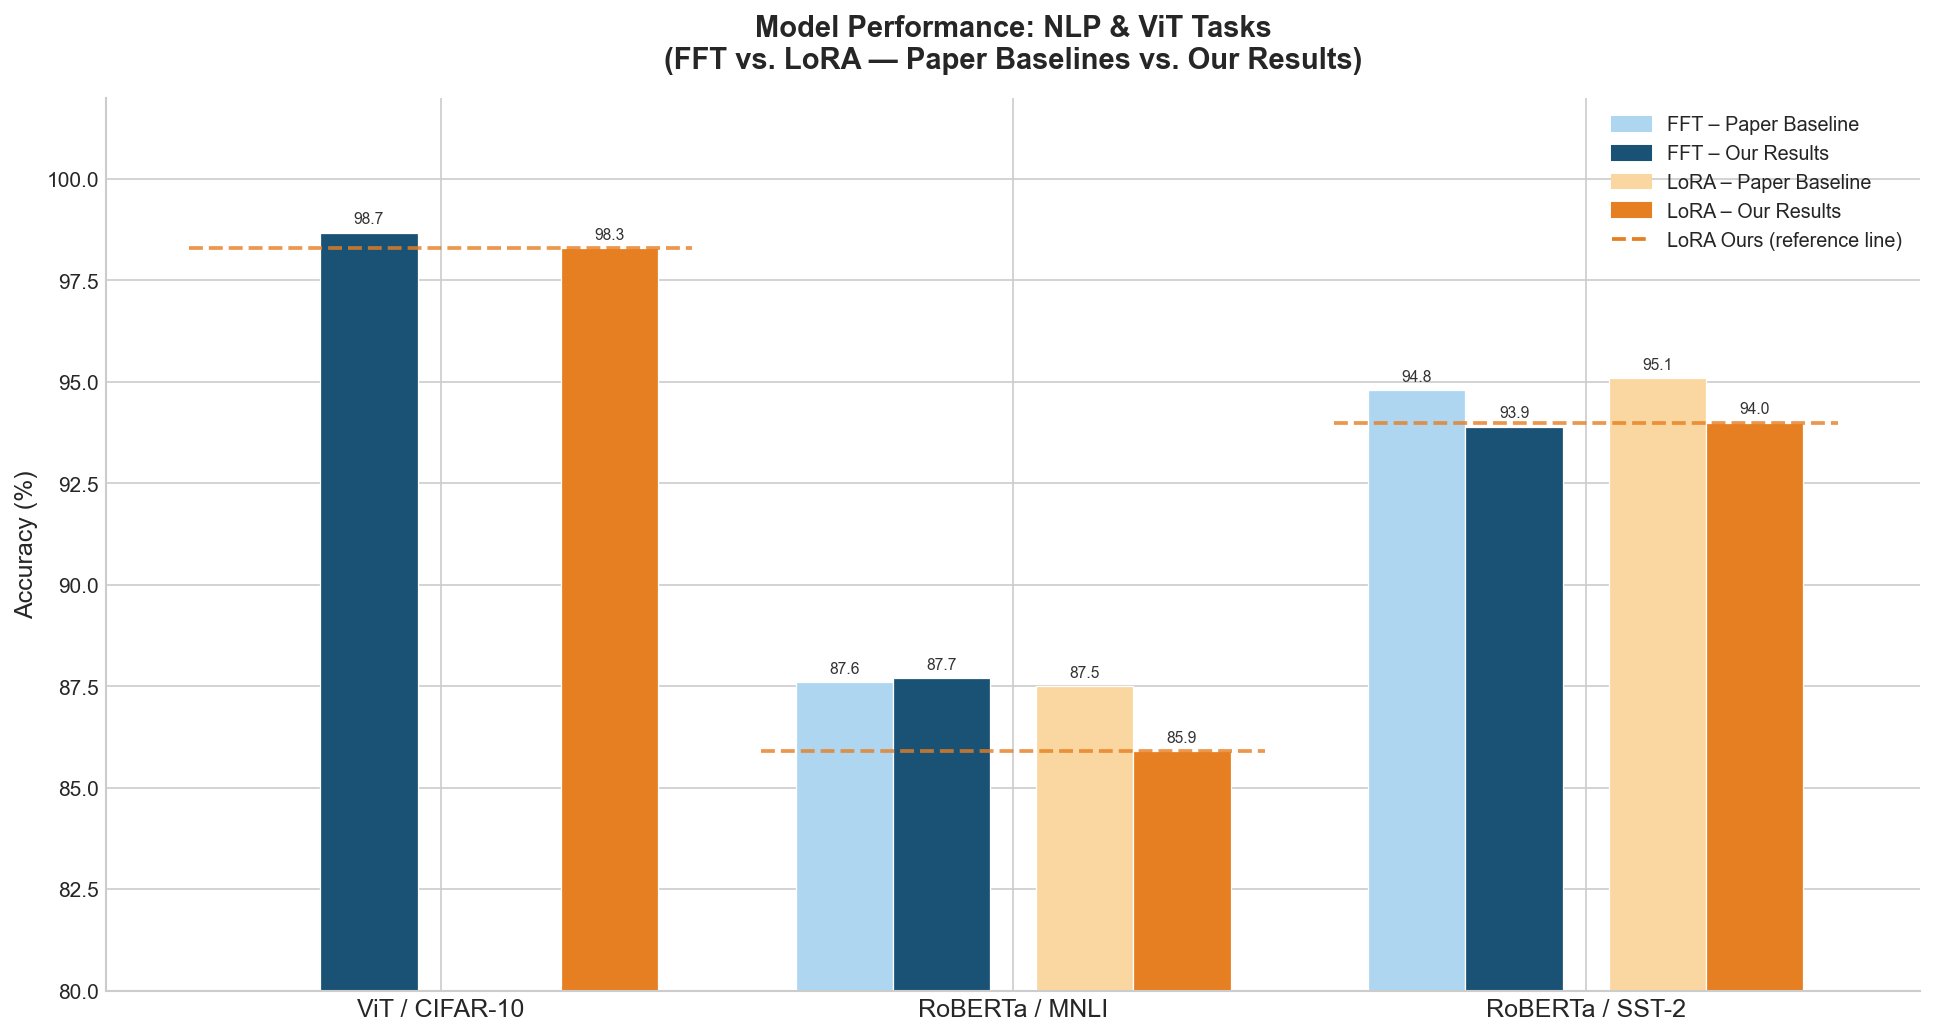
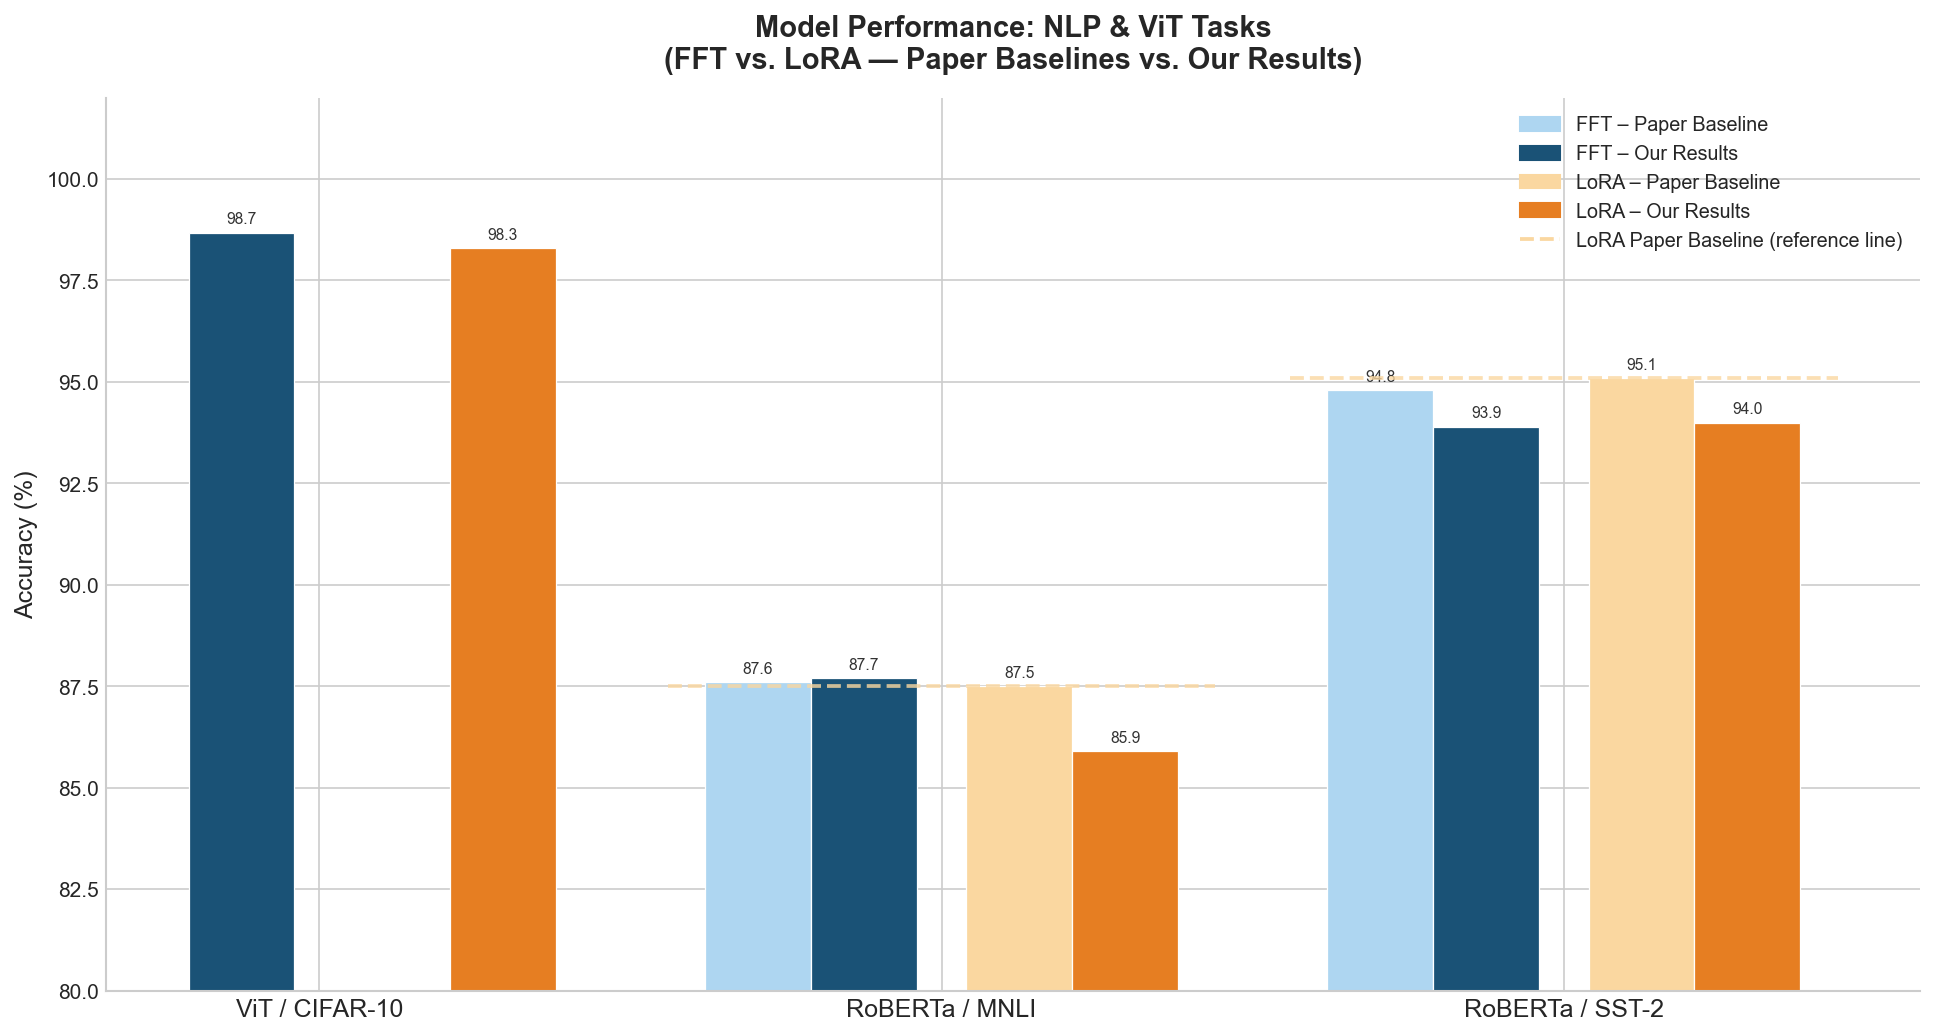
Update reference line in grouped bar chart to reflect LoRA Paper Baseline

Changed region(s): [[0.093, 0.2162, 0.6512, 0.9884], [0.6822, 0.3398, 0.9302, 0.9884], [0.7752, 0.0927, 0.9922, 0.2471]]

diff --git a/visualize2.py b/visualize2.py
@@ -51,15 +51,15 @@ for b, (col, label, color) in enumerate(zip(COLS, DISPLAY, COLORS)):
                 f"{v:.1f}", ha="center", va="bottom", fontsize=7.5, color="#333333",
             )
 
-# Dashed reference line at LoRA Ours per group
+# Dashed reference line at LoRA Paper per group
 for i, row in enumerate(acc_rows):
-    lo = row["LoRA_Ours"]
+    lo = row["LoRA_Paper"]
     if lo is not None:
         span = 2 * bar_w + gap + 0.02
         ax.hlines(
             lo, x[i] - span, x[i] + span,
-            colors="#E67E22", linestyles="dashed", linewidth=1.8, alpha=0.8,
-            label="LoRA Our Results (ref.)" if i == 0 else "_nolegend_",
+            colors="#FAD7A0", linestyles="dashed", linewidth=1.8, alpha=0.8,
+            label="LoRA Paper Baseline (ref.)" if i == 0 else "_nolegend_",
             zorder=5,
         )
 
@@ -78,8 +78,8 @@ legend_handles = [
     mpatches.Patch(color=COLORS[1], label="FFT – Our Results"),
     mpatches.Patch(color=COLORS[2], label="LoRA – Paper Baseline"),
     mpatches.Patch(color=COLORS[3], label="LoRA – Our Results"),
-    plt.Line2D([0], [0], color="#E67E22", linestyle="dashed",
-               linewidth=1.8, label="LoRA Ours (reference line)"),
+    plt.Line2D([0], [0], color="#FAD7A0", linestyle="dashed",
+               linewidth=1.8, label="LoRA Paper Baseline (reference line)"),
 ]
 ax.legend(handles=legend_handles, loc="upper right", fontsize=9.5, framealpha=0.95)
 
